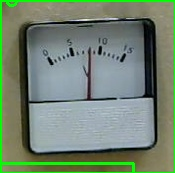
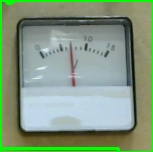
as 10

diff --git a/B1andB2/as/as_main.py b/B1andB2/as/as_main.py
@@ -5,10 +5,12 @@ import cv2
 
 #reading the image 
 
-img = cv2.imread('samplepic.png', 0)
-img_colour = cv2.imread('samplepic.png', 1)
+#img = cv2.imread('samplepic.png', 0)
+#img_colour = cv2.imread('samplepic.png', 1)
 #img = cv2.imread('samplepic_cropped.png', 0)
 #img_colour = cv2.imread('samplepic_cropped.png', 1)
+img = cv2.imread('newimage.png', 0)
+img_colour = cv2.imread('newimage.png', 1)
 
 ## 1. Edge detection
 blurred = cv2.blur(img,(5,5))
@@ -60,7 +62,7 @@ for c in contours:
     
     # adding rectangles
     x,y,w,h = cv2.boundingRect(c)
-    if w/h < 0.3 or w/h > 3:
+    if (w/h < 0.3 or w/h > 3) or w < 15 or h < 15:
         pass
     else:
         top_l, top_r, bot_l, bot_r = int(x-0.1*w), int(x+w*1.1), int(y-0.1*h), int(y+h*1.1)

diff --git a/B1andB2/functions_1.py b/B1andB2/functions_1.py
@@ -71,7 +71,7 @@ def create_img_sections (image):
         
         # creating adding rectangles
         x,y,w,h = cv2.boundingRect(c)
-        if w/h < 0.3 or w/h > 3:
+        if (w/h < 0.3 or w/h > 3) or w < 15 or h < 15:
             pass
         else:
             top_l, top_r, bot_l, bot_r = int(x-0.1*w), int(x+w*1.1), int(y-0.1*h), int(y+h*1.1)
